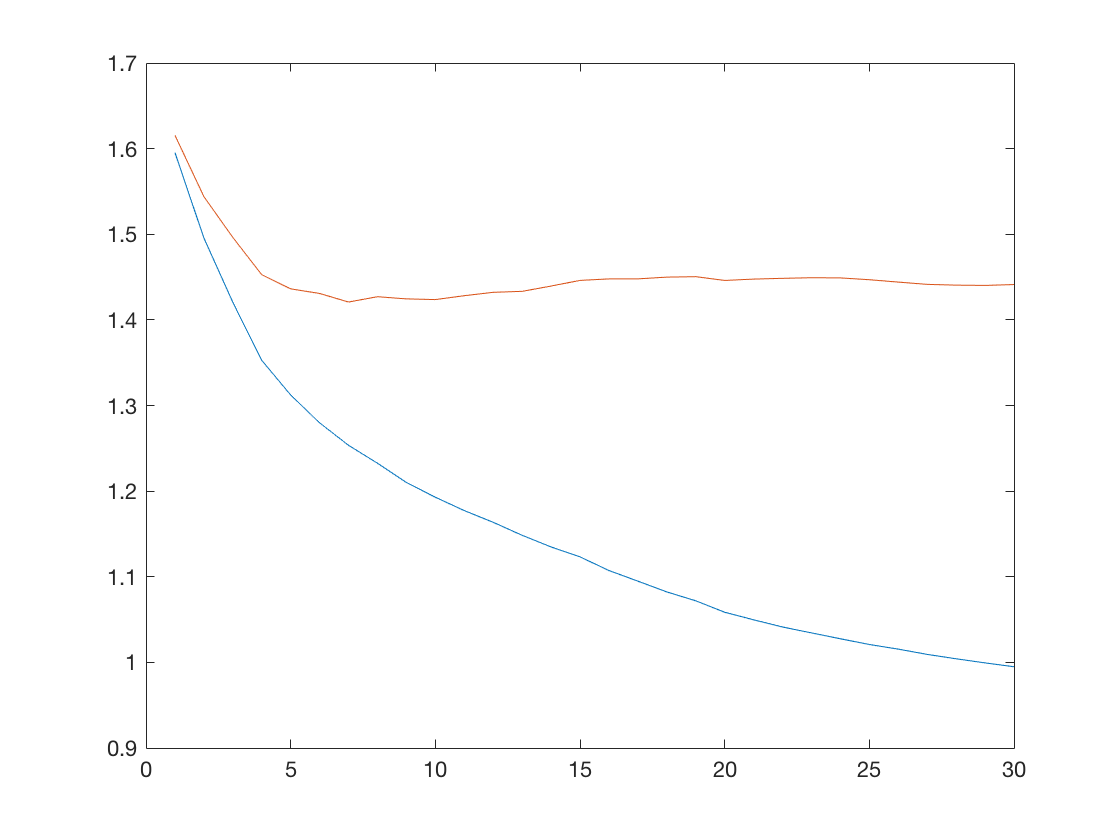
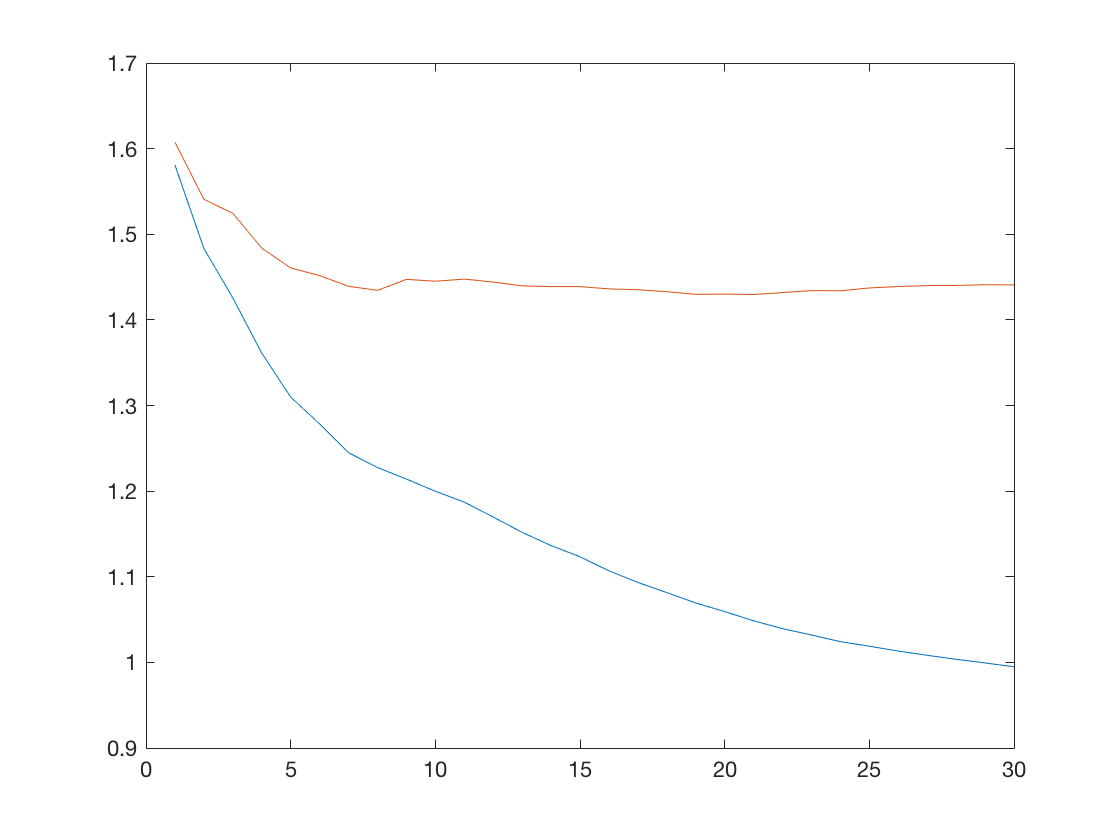
fix

diff --git a/A2/ComputeCost.m b/A2/ComputeCost.m
@@ -3,6 +3,6 @@ function J = ComputeCost(X, Y, W, b, lambda)
 % X: an image (dxn)
 % Y: one-hot label for the column (Kxn)
 [~, n] = size(X);
-P = EvaluateClassifier(X, W, b);
+[P, ~, ~] = EvaluateClassifier(X, W, b);
 J = -sum(log(sum(Y.*P, 1)))/n + lambda*(sum(sum((W{1}.^2),1))+sum(sum((W{2}.^2),1)));
 end

diff --git a/A2/training.m b/A2/training.m
@@ -37,7 +37,6 @@ X_test = X_test - repmat(mean_X, [1, size(X_test, 2)]);
 
 % set training parameters
 n_epochs=30; n_batch=230;  % 0.4442   %0.5005
-% n_epochs=30; n_batch=300;
 
 lambda = 2.24e-05; eta = 0.108993;
 % lambda = 1e-5; eta = 0.025;
